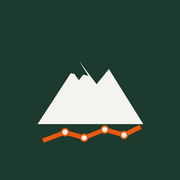
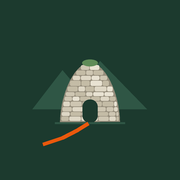
Itinera devient Orri — Planificateur de randos et treks
Nouveau nom (Itinera était déjà pris), nouvelle icône (un orri,
cabane de berger en pierre sèche des Pyrénées). Le robot de données
se resynchronise avant de publier.

Claude-Session: https://claude.ai/code/session_016VRx2br7o7pgzvGhWifnix

Changed region(s): [[0.1667, 0.3056, 0.8056, 0.8056]]

diff --git a/index.html b/index.html
@@ -3,15 +3,15 @@
 <head>
 <meta charset="utf-8">
 <meta name="viewport" content="width=device-width, initial-scale=1">
-<title>Itinera — planificateur de treks au long cours</title>
-<meta name="description" content="Planifie tes treks au long cours : tracé, étapes, eau, refuges, bivouacs, ravitaillement et gares.">
+<title>Orri — Planificateur de randos et treks</title>
+<meta name="description" content="Orri : planifie tes randos et treks — tracé, étapes, eau, refuges, bivouacs, ravitaillement et gares.">
 <meta name="theme-color" content="#1c3a2e">
 <link rel="manifest" href="manifest.webmanifest">
 <link rel="icon" type="image/png" sizes="32x32" href="icons/favicon-32.png">
 <link rel="apple-touch-icon" href="icons/apple-touch-icon.png">
 <meta name="mobile-web-app-capable" content="yes">
 <meta name="apple-mobile-web-app-capable" content="yes">
-<meta name="apple-mobile-web-app-title" content="Itinera">
+<meta name="apple-mobile-web-app-title" content="Orri">
 <link rel="stylesheet" href="https://cdnjs.cloudflare.com/ajax/libs/leaflet/1.9.4/leaflet.min.css">
 <style>
 :root{
@@ -103,8 +103,8 @@ footer{font-size:11px;color:var(--muted);margin-top:18px;border-top:1px solid va
 <body>
 <div id="app">
   <aside id="panel">
-    <h1>Itinera</h1>
-    <p class="sub">Planificateur de treks au long cours · prototype v0.6</p>
+    <h1>Orri</h1>
+    <p class="sub">Planificateur de randos et treks · prototype v0.6</p>
 
     <input id="q" type="search" placeholder="Aller à… (ex. Cauterets, Pic du Canigou)" autocomplete="off">
     <ul id="results"></ul>
@@ -758,7 +758,7 @@ function renderPoiStatus() {
   if (poiState === 'loading') el.textContent = poiProgress.local
     ? `⏳ Chargement des points (${poiProgress.done} / ${poiProgress.total} zones)…`
     : `⏳ Recherche dans OpenStreetMap (hors pays couverts)…${prog}${poiProgress.server > 1 ? ` (serveur de secours ${poiProgress.server - 1}/${OVERPASS.length - 1})` : ''}. ${n ? nf0.format(n) + ' points déjà trouvés.' : ''}`;
-  else if (poiState === 'error') { el.innerHTML = `⚠ ${n ? nf0.format(n) + ' points trouvés, mais une partie du tracé n\'a pas pu être analysée' : 'Points indisponibles'} : ${poiIndex ? 'hors des pays couverts par Itinera, ' : ''}les serveurs publics OpenStreetMap ne répondent pas. Réessaie dans quelques minutes.<button id="poiRetry">Réessayer</button>`; $('#poiRetry').onclick = () => fetchPOIs(); }
+  else if (poiState === 'error') { el.innerHTML = `⚠ ${n ? nf0.format(n) + ' points trouvés, mais une partie du tracé n\'a pas pu être analysée' : 'Points indisponibles'} : ${poiIndex ? 'hors des pays couverts par Orri, ' : ''}les serveurs publics OpenStreetMap ne répondent pas. Réessaie dans quelques minutes.<button id="poiRetry">Réessayer</button>`; $('#poiRetry').onclick = () => fetchPOIs(); }
   else el.textContent = has ? `${nf0.format(n)} points à moins de 1 km du tracé (1,5 km pour les commerces, 3 km pour les gares). Clique sur une étape pour voir le détail.${poiIndex ? ' Données OpenStreetMap du ' + new Date(poiIndex.generated + 'T12:00:00').toLocaleDateString('fr-FR', { day: 'numeric', month: 'long', year: 'numeric' }) + '.' : ''}` : 'Trace un itinéraire pour voir l\'eau, les refuges et les commerces.';
   Object.keys(CAT).forEach(k => { const c = $('#cnt_' + k); if (c) c.textContent = has && R.pois ? nf0.format(R.pois.filter(p => p.cat === k).length) : '—'; });
 }
@@ -1050,7 +1050,7 @@ function importTracks(tracks) {
 }
 function toGPX() {
   const stamp = new Date().toISOString();
-  let x = `<?xml version="1.0" encoding="UTF-8"?>\n<gpx version="1.1" creator="Itinera" xmlns="http://www.topografix.com/GPX/1/1">\n<metadata><name>Itinéraire</name><time>${stamp}</time></metadata>\n`;
+  let x = `<?xml version="1.0" encoding="UTF-8"?>\n<gpx version="1.1" creator="Orri" xmlns="http://www.topografix.com/GPX/1/1">\n<metadata><name>Itinéraire</name><time>${stamp}</time></metadata>\n`;
   R.stages.forEach((s, k) => {
     if (k < R.stages.length - 1) {
       const where = s.endPoi ? (s.endPoi.name || s.endPoi.kind) : placeName(s.i1);
@@ -1151,7 +1151,7 @@ async function overpass(q) {
   }
   throw lastErr;
 }
-/* Données propres à Itinera : tuiles de 0,25° extraites d'OpenStreetMap chaque mois (data/poi/) */
+/* Données propres à Orri : tuiles de 0,25° extraites d'OpenStreetMap chaque mois (data/poi/) */
 const POI_BASE = 'data/poi/';
 let poiIndex = null, poiIndexAt = 0;
 const tileLoaded = new Set();
@@ -1195,7 +1195,7 @@ async function fetchPOIs() {
   let failed = false;
   try {
     const ix = await loadPoiIndex();
-    // 1. Pays couverts : données Itinera (rapide, fiable)
+    // 1. Pays couverts : données Orri (rapide, fiable)
     if (ix) {
       const need = localTilesNeeded(ix);
       if (need.length) {

diff --git a/sw.js b/sw.js
@@ -1,6 +1,6 @@
-// Itinera — service worker : l'application s'ouvre même sans réseau.
+// Orri — service worker : l'application s'ouvre même sans réseau.
 // (Les cartes et données hors ligne du trek arriveront en semaine 7.)
-const VERSION = 'itinera-v0.6.0';
+const VERSION = 'orri-v0.6.1';
 const SHELL = [
   './', './index.html', './manifest.webmanifest',
   './icons/icon-192.png', './icons/icon-512.png', './icons/maskable-512.png', './icons/favicon-32.png'

diff --git a/README.md b/README.md
@@ -1,6 +1,6 @@
-# Itinera
+# Orri
 
-Planificateur de treks au long cours : tracé sur carte, découpage automatique en étapes, eau, refuges, bivouacs, ravitaillement et gares le long du parcours.
+Planificateur de randos et treks au long cours : tracé sur carte, découpage automatique en étapes, eau, refuges, bivouacs, ravitaillement et gares le long du parcours.
 
 Application web installable (Android : Chrome → menu ⋮ → « Installer l'application »).
 
